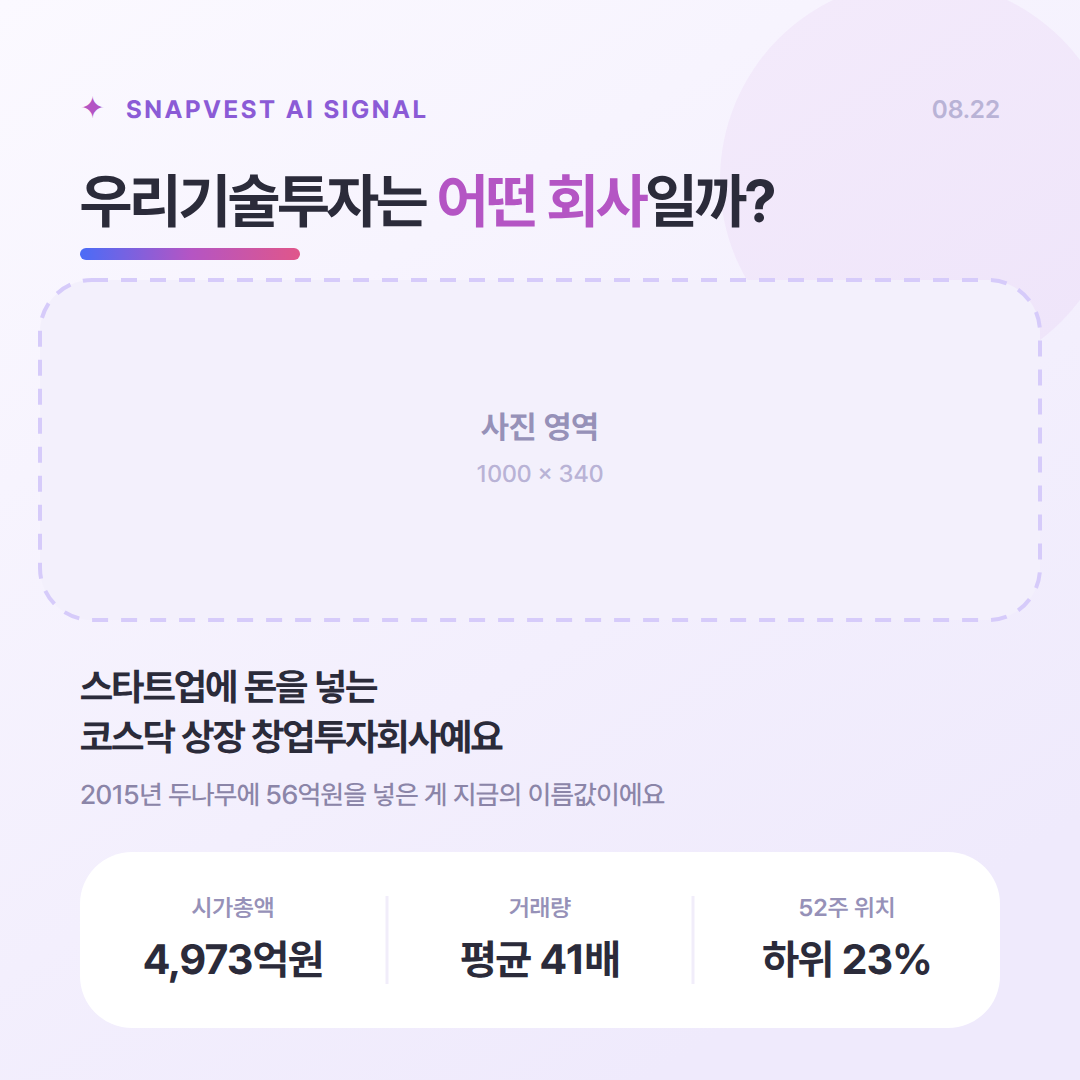
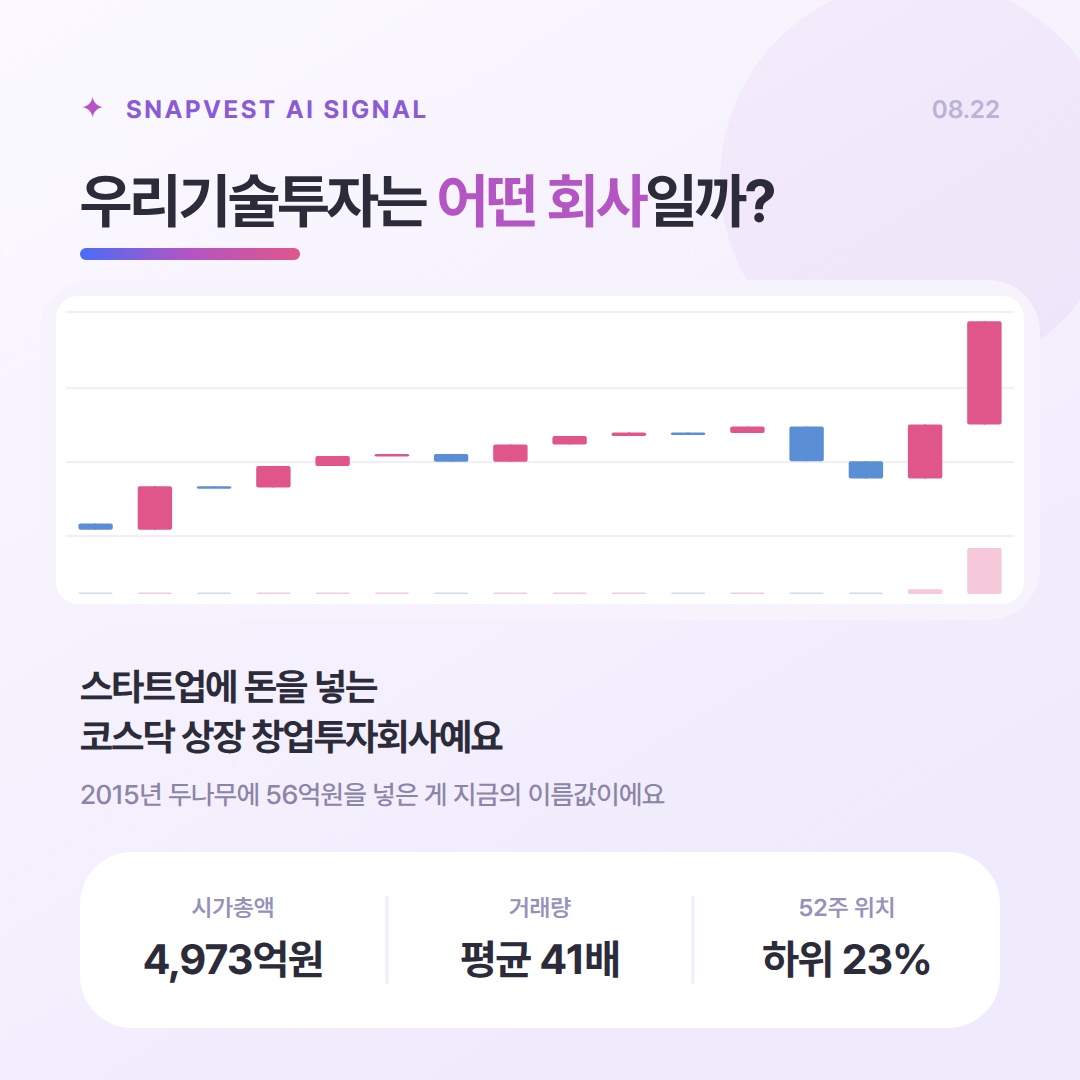
make_chart.py 추가 · 2번 카드에 일봉 차트 반영
- config.json 의 candles 를 사진 슬롯 크기(1000x340 / 1000x372)로 렌더하는
  make_chart.py 를 추가했다. 카드 색상 토큰을 그대로 써서 톤이 어긋나지 않는다
- 우리기술투자 2번 카드 사진을 16거래일 실데이터 일봉 차트로 채웠다
- 표지 로고와 3번 카드는 로고 원본이 없어 그대로 둔다.
  직접 그려봤지만 실제 마크와 형태가 달라 쓰지 않았다

diff --git a/cardnews/make_chart.py b/cardnews/make_chart.py
@@ -1,0 +1,77 @@
+#!/usr/bin/env python3
+"""
+config.json 의 candles -> assets/chart-*.png (사진 슬롯용 일봉 차트)
+
+4번 카드 안의 작은 차트와 별개로, 2·3번 카드 사진 자리에 넣을
+큰 일봉 차트를 만든다. 색·둥근모서리는 카드 디자인 토큰을 따른다.
+
+    python3 make_chart.py [폭] [높이] [결과파일]
+"""
+import json, pathlib, subprocess, sys, tempfile
+from PIL import Image
+
+HERE = pathlib.Path(__file__).parent
+CHROME = "/opt/pw-browsers/chromium-1194/chrome-linux/chrome"
+UP, DOWN = "#E0568A", "#5A8FD6"
+GRID, BG, PANEL = "#F1EDFA", "#F6F3FD", "#FFFFFF"
+
+
+def build_svg(candles, w, h):
+    pad = 26
+    x0, x1 = pad, w - pad
+    yt, yb = pad + 6, h - pad - 58          # 가격 영역
+    vt, vb = h - pad - 46, h - pad          # 거래량 영역
+    lo = min(c[2] for c in candles) * 0.985
+    hi = max(c[1] for c in candles) * 1.015
+    py = lambda v: yb - (v - lo) / (hi - lo) * (yb - yt)
+    step = (x1 - x0) / len(candles)
+    bw = step * 0.58
+
+    p = [f'<rect width="{w}" height="{h}" fill="{BG}"/>',
+         f'<rect x="{pad-10}" y="{pad-10}" width="{w-2*(pad-10)}" height="{h-2*(pad-10)}" '
+         f'rx="22" fill="{PANEL}"/>']
+    for f in (0, .33, .66, 1):
+        y = py(lo + (hi - lo) * f)
+        p.append(f'<line x1="{x0}" y1="{y:.1f}" x2="{x1}" y2="{y:.1f}" '
+                 f'stroke="{GRID}" stroke-width="2"/>')
+    for i, (o, high, low, cl, v) in enumerate(candles):
+        cx = x0 + step * (i + .5)
+        col = UP if cl >= o else DOWN
+        p.append(f'<line x1="{cx:.1f}" y1="{py(high):.1f}" x2="{cx:.1f}" y2="{py(low):.1f}" '
+                 f'stroke="{col}" stroke-width="2"/>')
+        t, b = py(max(o, cl)), py(min(o, cl))
+        p.append(f'<rect x="{cx-bw/2:.1f}" y="{t:.1f}" width="{bw:.1f}" '
+                 f'height="{max(b-t, 2.5):.1f}" rx="2" fill="{col}"/>')
+        vh = max(v * (vb - vt), 1.5)
+        p.append(f'<rect x="{cx-bw/2:.1f}" y="{vb-vh:.1f}" width="{bw:.1f}" '
+                 f'height="{vh:.1f}" rx="2" fill="{col}" opacity="0.32"/>')
+    return (f'<svg xmlns="http://www.w3.org/2000/svg" width="{w}" height="{h}" '
+            f'viewBox="0 0 {w} {h}">{"".join(p)}</svg>')
+
+
+def main():
+    w = int(sys.argv[1]) if len(sys.argv) > 1 else 1000
+    h = int(sys.argv[2]) if len(sys.argv) > 2 else 340
+    out = HERE / "assets" / (sys.argv[3] if len(sys.argv) > 3 else "chart.png")
+    cfg = json.loads((HERE / "config.json").read_text(encoding="utf-8"))
+    candles = cfg.get("candles")
+    if not candles:
+        sys.exit("config.json 에 candles 가 없습니다. 실데이터를 먼저 넣으세요.")
+
+    out.parent.mkdir(exist_ok=True)
+    with tempfile.TemporaryDirectory() as td:
+        html = pathlib.Path(td) / "c.html"
+        html.write_text('<!doctype html><meta charset="utf-8">'
+                        '<style>html,body{margin:0;padding:0}svg{display:block}</style>'
+                        + build_svg(candles, w, h), encoding="utf-8")
+        shot = pathlib.Path(td) / "c.png"
+        subprocess.run([CHROME, "--headless", "--no-sandbox", "--disable-gpu",
+                        "--hide-scrollbars", "--force-device-scale-factor=1",
+                        f"--window-size={w},{h+160}", f"--screenshot={shot}",
+                        f"file://{html}"], check=True, capture_output=True)
+        Image.open(shot).convert("RGB").crop((0, 0, w, h)).save(out, quality=95)
+    print(f"  ✓ {out}  {w}×{h}  ({len(candles)}봉)")
+
+
+if __name__ == "__main__":
+    main()

diff --git a/cardnews/README.md b/cardnews/README.md
@@ -170,6 +170,15 @@ python3 render.py           # out/*.svg -> png/*.png
 헤드리스 크롬으로 렌더한다. `render.py` 의 `CHROME` 경로만 환경에 맞게 고치면 된다.
 Pretendard 는 시스템 폰트로 설치돼 있어야 한다 (`fc-list | grep -i pretendard`).
 
+사진 슬롯에 일봉 차트를 넣고 싶으면 `config.json` 에 실제 `candles` 를 채운 뒤
+
+```
+python3 make_chart.py 1000 340 chart-company.png   # 2번 카드 슬롯
+python3 make_chart.py 1000 372 chart-reason.png    # 3번 카드 슬롯
+```
+
+카드 색상 토큰을 그대로 쓰기 때문에 사진 자리에 넣어도 톤이 어긋나지 않는다.
+
 ### 전체 흐름
 
 ```

diff --git a/cardnews/SOURCES.md b/cardnews/SOURCES.md
@@ -55,7 +55,7 @@ RSI 를 직접 계산하면 78.7 이 나오는데 토스는 69.56 이다.
 | 자리 | 상태 |
 |---|---|
 | 표지 원형 로고 | **레터마크 `우`** (임시) |
-| 2번 카드 | 점선 플레이스홀더 |
+| 2번 카드 | **일봉 차트** — `make_chart.py` 로 `candles` 를 1000×340 으로 렌더 |
 | 3번 카드 | 점선 플레이스홀더 |
 
 로고 원본이 세 번 모두 파일로 전달되지 않았다.
